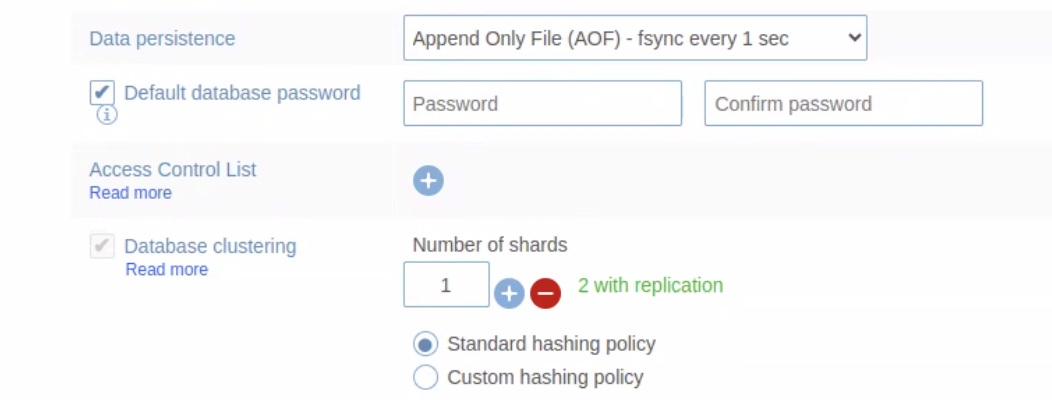
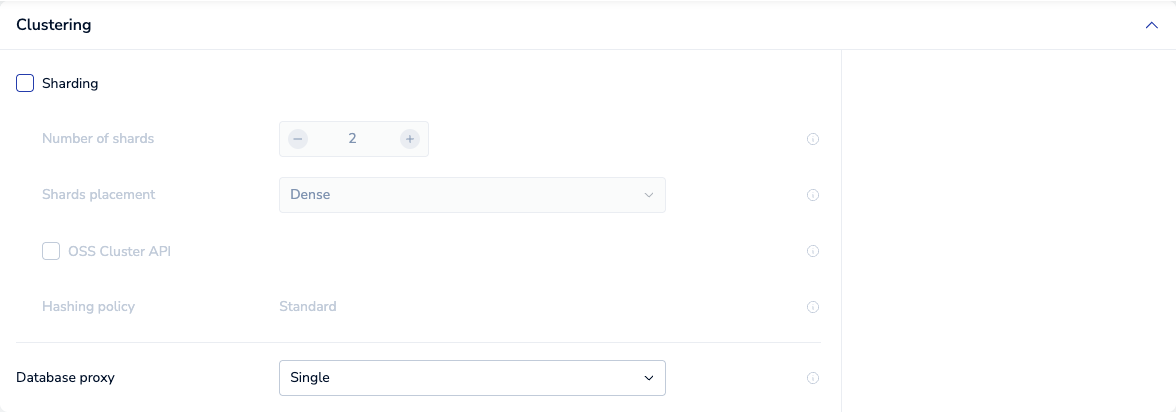
RDI: Replace old Redis Enterprise UI screenshots for the RDI database (#4158)
The "Create the RDI database" requirements showed screenshots from the legacy
Redis Enterprise admin UI, which only exists in versions that are now EOL
(everything from 7.8 on has the new Cluster Manager UI). Retook both images on
a Redis Enterprise 7.22.0-241 cluster and updated the prose to match.

The new UI no longer has a "Database clustering" option: the control lives in
the Clustering section and is labelled Sharding, and the Configuration tab
reports it as "Sharding: Disabled" rather than "Database clustering: None".
Sharding is also unchecked by default in the 7.22 create form. The image
filenames are unchanged, so the four pages that embed rdi-db-reqs.md
(install-vm, install-k8s, quick-start-guide, reqsummary) pick up the fix
without reference edits.

Learned: the new RE UI calls the clustering option Sharding, not Database clustering
Gaps: page not rendered locally (local Hugo 0.154 fails on docs-nav; CI pins 0.143.1)
Recheck: if the Cluster Manager UI renames or moves the Clustering section again

diff --git a/content/embeds/rdi-db-reqs.md b/content/embeds/rdi-db-reqs.md
@@ -40,16 +40,16 @@
   RDI database is clustered (but note that the target database *can* be clustered without
   any problems).
 
-  If the **Database clustering** option is checked when you create the RDI database (as shown below),
-  you must *uncheck* it before proceeding.
+  When you create the RDI database, expand the **Clustering** section and make sure the
+  **Sharding** option is *unchecked* (as shown below).
 
-  {{< image filename="images/rdi/ingest/RDIClusterSetting.webp" alt="Uncluster the RDI database." >}}
+  {{< image filename="images/rdi/ingest/RDIClusterSetting.webp" alt="The Sharding option is unchecked in the Clustering section of the create database form." >}}
 
   You can check if your RDI database is clustered from its **Configuration** tab in the
-  Redis Enterprise console. The **Database clustering** option should be set to **None**,
+  Cluster Manager UI. In the **Clustering** section, **Sharding** should be set to **Disabled**,
   as shown in the following screenshot:
 
-  {{< image filename="images/rdi/ingest/RDICheckUnclustered.webp" alt="Check that the RDI database is not clustered." >}}
+  {{< image filename="images/rdi/ingest/RDICheckUnclustered.webp" alt="The Clustering section of the database Configuration tab shows Sharding: Disabled." >}}
 
   If you find the database has been clustered by mistake, you must create a new database with
-  clustering disabled before continuing with the RDI installation.
+  sharding disabled before continuing with the RDI installation.
